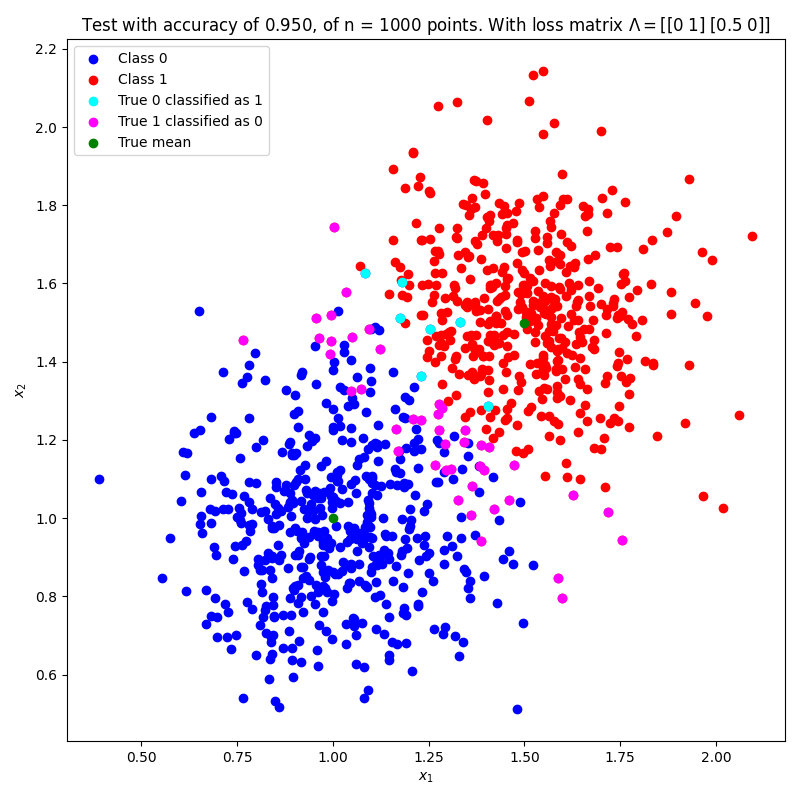
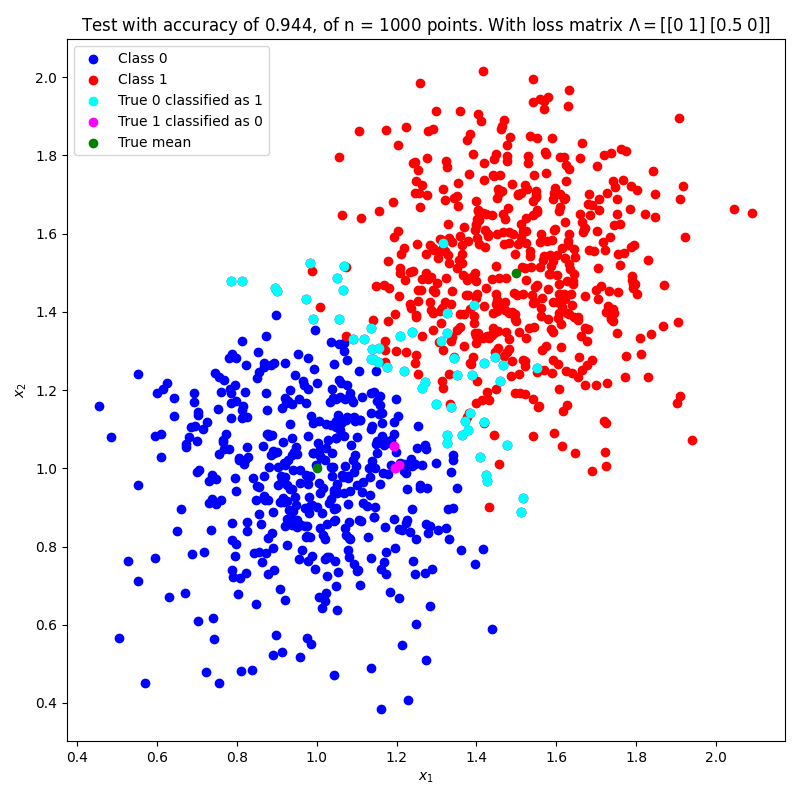
Changed which risk multiplies with which decision boundary

diff --git a/week34/problem2_12.py b/week34/problem2_12.py
@@ -28,7 +28,7 @@ class BayesianClassifier2D:
                 return 1
         # else include risk throught given loss matrix.
         else:
-            if self.risk[1][0] * boundary0 - self.risk[0][1] * boundary1 >= 0:
+            if self.risk[0][1] * boundary0 - self.risk[1][0] * boundary1 >= 0:
                 return 0
             else:
                 return 1
@@ -76,8 +76,8 @@ if __name__ == "__main__":
     sigma1 = .2
     sigma2 = .2
     loss_matrix = np.array([[0, 1], [0.5, 0]])
-    cl = BayesianClassifier2D(mu0, mu1, sigma1, sigma2)
-    cl.test()
+    # cl = BayesianClassifier2D(mu0, mu1, sigma1, sigma2, loss_matrix)
+    # cl.test()
     mu2 = np.array([3, 3])
-    # cl2 = BayesianClassifier2D(mu0, mu2, sigma1, sigma2)
-    # cl2.test()
+    cl2 = BayesianClassifier2D(mu0, mu2, sigma1, sigma2, loss_matrix)
+    cl2.test()
